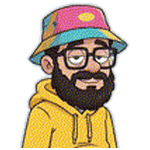
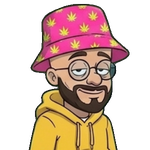
Marcomunista: ritratto col nuovo look
Claude-Session: https://claude.ai/code/session_01XD81VNwzSjFWa2CDWK6EiL

diff --git a/public/assets/characters/marcomunista/README.md b/public/assets/characters/marcomunista/README.md
@@ -8,7 +8,7 @@ Marco col cappello da pescatore, la felpa gialla, gli occhiali e la barba. Pelat
 - Fotogrammi da **400×240 px** con i piedi a 206 (`footY`) e `scale: 1.5` (nuovo look, 13/11/2026: calvo è alto 64 px, in gioco circa 96 come gli altri). Tutte le strisce hanno il personaggio alla stessa altezza (cappello largo circa 15 px): MA-01, MA-02, MA-12 e MA-22 erano tagliate 1,7 volte più grandi e sono state rimpicciolite attorno ai piedi.
 - **Contorno chiaro** di 2 px attorno al corpo (non all'energia), come le pose del foglio, per leggersi sui fondali scuri.
 - PNG a 256 colori: la GIF è retinata e a colori pieni pesava il triplo.
-- `portrait.png`: testa e cappello del fermo, per lobby e HUD.
+- `portrait.png`: testa e spalle col nuovo look (cappello rosa), ritagliato da `docs/clip-flow/riferimenti/personaggi/marcomunista.png` a 150×150, per lobby e HUD.
 
 | Stato | Fotogrammi della GIF | Colpo (`hitFrame`) |
 |---|---|---|
